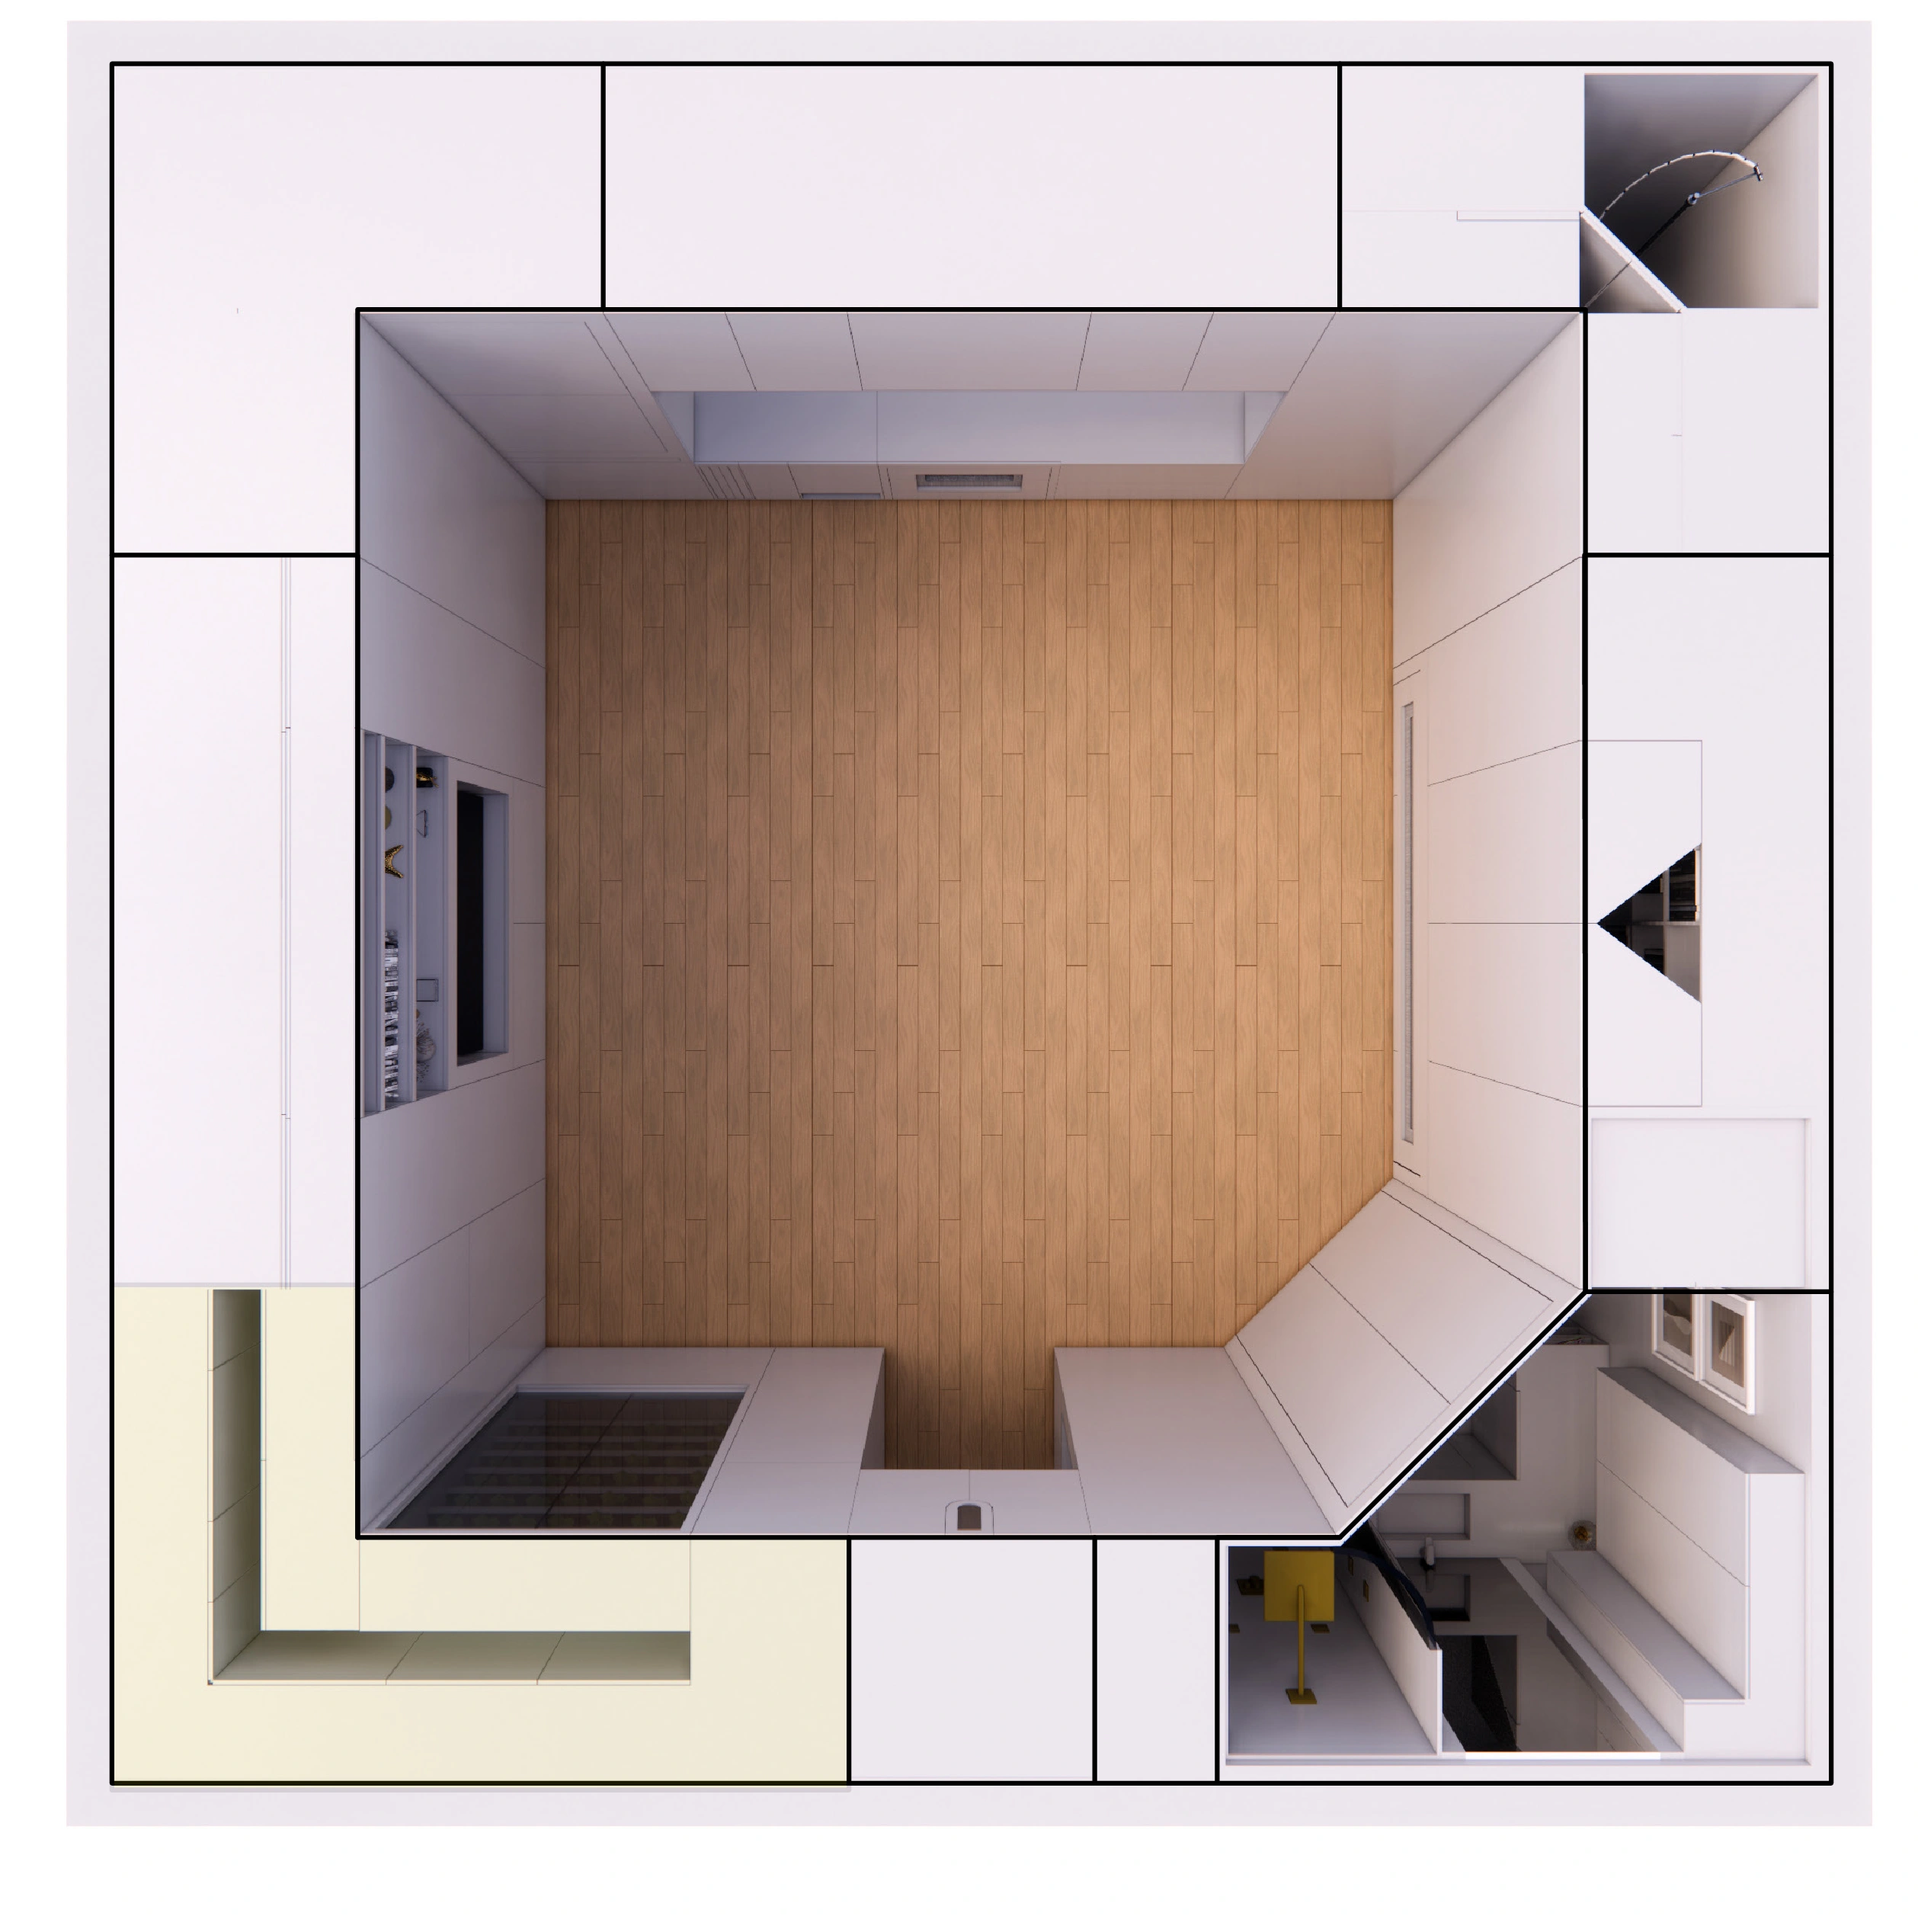
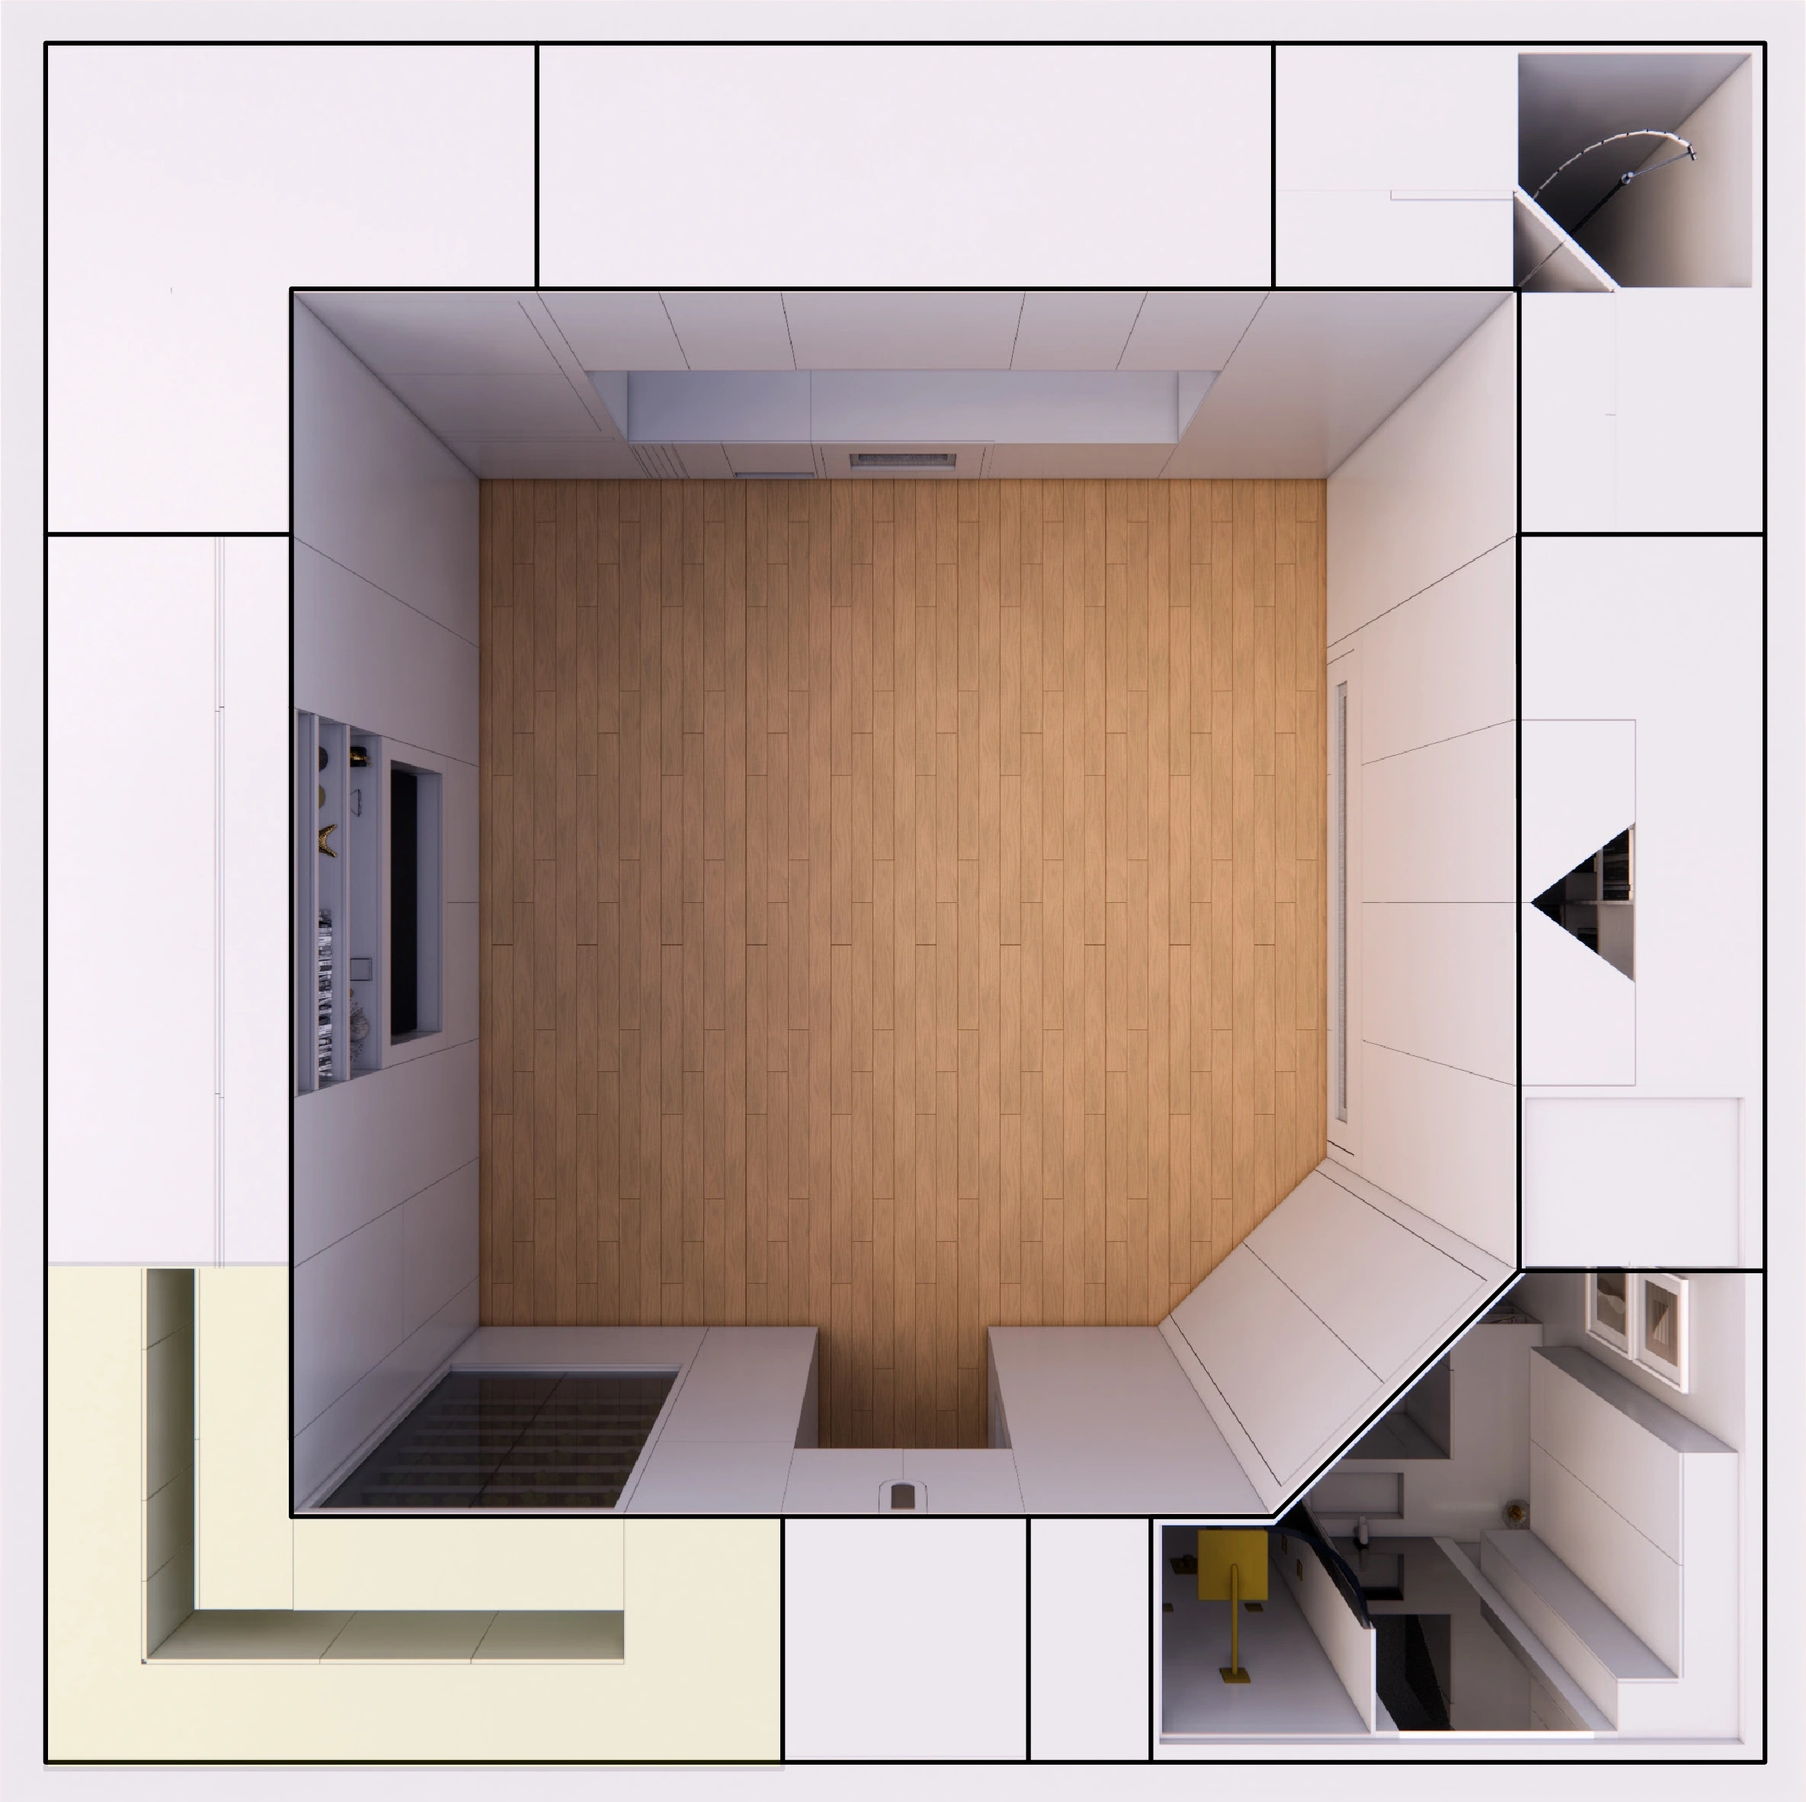
refactor: Daha iyi okunabilirlik ve tutarlılık için ModularHomeDetail bileşeninin stilleri güncellendi; daha iyi görsel hiyerarşi için resim kaynakları ve düzeni ayarlandı.

diff --git a/src/components/works/slug/modularHomeDetail/index.jsx b/src/components/works/slug/modularHomeDetail/index.jsx
@@ -1,11 +1,11 @@
-"use client";
-import CommonHero from "@/components/common/commonHero";
-import MotionLeftView from "@/components/common/motionLeftView";
-import MotionRightView from "@/components/common/motionRightView";
-import { useHeaderStore } from "@/store/headerStore";
-import { useIntroStore } from "@/store/introStore";
-import Image from "next/image";
-import React, { useEffect } from "react";
+'use client';
+import CommonHero from '@/components/common/commonHero';
+import MotionLeftView from '@/components/common/motionLeftView';
+import MotionRightView from '@/components/common/motionRightView';
+import { useHeaderStore } from '@/store/headerStore';
+import { useIntroStore } from '@/store/introStore';
+import Image from 'next/image';
+import React, { useEffect } from 'react';
 
 export default function ModularHomeDetail() {
   const setTitle = useHeaderStore((state) => state.setTitle);
@@ -13,15 +13,15 @@ export default function ModularHomeDetail() {
   const setIntroComplete = useIntroStore((state) => state.setIntroComplete);
 
   useEffect(() => {
-    setLightTitle("Works");
-    setTitle("ART");
+    setLightTitle('Works');
+    setTitle('ART');
     setIntroComplete(true);
   }, [setTitle, setLightTitle, setIntroComplete]);
 
   return (
     <main className="w-full fluid gridContainer">
       <CommonHero
-        video="/videos/home-hero-video.mp4"
+        video="/videos/home-hero-video-2.mp4"
         title="The Modular Home"
         subtitle="Interior Concept"
         description="Living alone is a growing trend and when small spaces are combined
@@ -33,74 +33,71 @@ export default function ModularHomeDetail() {
                     the user to meet the current need. The ultimate ambition is to redefine
                     the environment as an extension of a human."
         sideInfo={[
-          { label: "DATE", value: "2025" },
-          { label: "DIMENSION", value: "7x7x3.5m" },
-          { label: "AWARDS", value: "iF Design Award 2026" },
+          { label: 'DATE', value: '2025' },
+          { label: 'DIMENSION', value: '7x7x3.5m' },
+          { label: 'AWARDS', value: 'iF Design Award 2026' },
         ]}
       />
       <section className="fluid gridContainer w-full bg-custom-gray lg:min-h-100 py-12 sm:py-20 md:py-25 md:px-12.5">
         <main className="w-full flex items-center justify-end">
           <article className="w-full max-w-170">
             <p className="font-minion-pro text-base sm:text-lg lg:text-[20px] leading-6 sm:leading-7">
-              Home is; <br />A combination of objects and spaces. The only think that matters is the interaction of the human with the object. However, sometimes, the space is not enough for a good
-              interaction, and this is where this project begins to merge those spaces...
+              Home is; <br />A combination of objects and spaces. The only think that matters is the interaction of the human with the object. However, sometimes, the space is not enough for
+              a good interaction, and this is where this project begins to merge those spaces...
             </p>
           </article>
         </main>
       </section>
-      <main className="w-full flex flex-col gap-18.75 py-12.5 lg:py-18.75">
+      <main className="w-full flex flex-col gap-12.5 sm:gap-15 lg:gap-18.75 py-12.5 lg:py-18.75">
         <section className="w-full">
           <article className="relative w-full aspect-1500/765">
             <Image src="/images/projects/the-modular-home-detail-1.webp" alt="The Modular Home Detail 1" fill className="object-cover w-full h-full" />
           </article>
         </section>
         <section className="w-full">
-          <article className="w-full grid grid-cols-2 place-content-stretch items-center gap-10">
-            <p className="text-[20px] font-minion-pro">
-              When small spaces are combined with traditional architecture, they often result limited functionality and cramped layouts. As a solution, the design coverts rooms into customizable smart
-              modules that transforms 49m2 meter space into different rooms. Instead of making the occupant move around the rooms, the projects aim to create the rooms around the user to meet the
-              current need. The ultimate ambition is to redefine the environment as an extension of a human.
+          <article className="w-full grid lg:grid-cols-2 place-content-stretch items-center gap-10">
+            <p className="order-2 lg:order-1 text-base sm:text-lg lg:text-[20px] font-minion-pro">
+              When small spaces are combined with traditional architecture, they often result limited functionality and cramped layouts. As a solution, the design coverts rooms into
+              customizable smart modules that transforms 49m2 meter space into different rooms. Instead of making the occupant move around the rooms, the projects aim to create the rooms
+              around the user to meet the current need. The ultimate ambition is to redefine the environment as an extension of a human.
             </p>
-            <div className="relative min-h-150 flex">
-              <MotionRightView className="relative w-100 h-100">
-                <Image src="/images/projects/the-modular-home-detail-2-lower.webp" alt="The Modular Home Detail 2 Lower" fill className="object-cover w-full h-full" />
+            <div className="relative order-1 lg:order-2 max-h-[660px] aspect-730/660 flex">
+              <MotionRightView className="relative w-full h-full">
+                <Image src="/images/projects/the-modular-home-detail-2-low.png" alt="The Modular Home Detail 2 Lower" fill className="object-cover w-full h-full" />
               </MotionRightView>
-              <MotionLeftView className="absolute bottom-0 right-0 w-100 h-100">
-                <Image src="/images/projects/the-modular-home-detail-2-high.webp" alt="The Modular Home Detail 2 High" fill className="object-cover w-full h-full" />
-              </MotionLeftView>
             </div>
           </article>
         </section>
-        <section className="w-full flex flex-col items-start gap-18.75">
+        <section className="w-full flex flex-col items-start gap-12.5 sm:gap-15 lg:gap-18.75">
           <article className="relative w-full max-w-222.25 h-125">
             <Image src="/images/projects/the-modular-home-detail-3.webp" alt="The Modular Home Detail 3" fill className="object-cover w-full h-full" />
           </article>
-          <article className="flex flex-col self-end items-start gap-3 max-w-213.5 font-minion-pro text-[20px] leading-7">
+          <article className="flex flex-col self-end items-start gap-3 max-w-213.5 font-minion-pro text-base sm:text-lg lg:text-[20px] leading-7">
             <p>
-              The project aims to re-design and update the living spaces to achieve more efficient utilization of space in a small apartment for a single occupant or a couple. The design based on the
-              idea of rooms can be treated as individual modules that can be opened and closed, depending on the occupant's current needs. The aim is to reduce the amount of unoccupied volumes while
-              also maximizing the usability of the available space.
+              The project aims to re-design and update the living spaces to achieve more efficient utilization of space in a small apartment for a single occupant or a couple. The design
+              based on the idea of rooms can be treated as individual modules that can be opened and closed, depending on the occupant's current needs. The aim is to reduce the amount of
+              unoccupied volumes while also maximizing the usability of the available space.
             </p>
             <p>
-              The concept is designed as a home that is 7-meter to a 7-meter single room, where 13 modular units share and transform to get maximum efficiency. The concept creates a flexible and
-              customizable living space which is three times more efficient than traditional architecture in small spaces. The design made to allow and adapt to the changing needs and preferences of
-              the occupants over time.
+              The concept is designed as a home that is 7-meter to a 7-meter single room, where 13 modular units share and transform to get maximum efficiency. The concept creates a flexible
+              and customizable living space which is three times more efficient than traditional architecture in small spaces. The design made to allow and adapt to the changing needs and
+              preferences of the occupants over time.
             </p>
           </article>
         </section>
-        <section className="w-full grid grid-cols-2 place-content-stretch gap-12.5">
-          <article className="relative w-full h-187.5">
+        <section className="w-full grid lg:grid-cols-2 place-content-stretch justify-items-stretch gap-12.5">
+          <article className="relative aspect-750/750">
             <Image src="/images/projects/the-modular-home-detail-4.webp" alt="The Modular Home Detail 4" fill className="object-cover w-full h-full" />
           </article>
-          <article className="flex flex-col items-start gap-10">
-            <video className="block w-full h-full max-h-118 bg-white object-fit" autoPlay loop muted>
+          <article className="flex h-full flex-col items-start gap-5 min-[86.25rem]:gap-10">
+            <video className="block aspect-725/472 bg-white object-fit" autoPlay loop muted>
               <source src="/videos/the-modular-home-detail-video.mp4" type="video/mp4" />
             </video>
-            <div className="flex flex-col items-start gap-10">
+            <div className="flex flex-col items-start gap-2 xl:gap-5 min-[86.25rem]:gap-10">
               <h3 className="text-[32px] font-helvetica-neue font-light">Kitchen</h3>
-              <p className="font-minion-pro text-[20px] leading-7">
-                The kitchen module functions in two modes: fully open as a traditional kitchen, or closed for basic use. It supports users by ordering food based on health data, with deliveries stored
-                in a temperature-controlled cabinet.
+              <p className="font-minion-pro text-base sm:text-lg xl:text-[20px] sm:leading-5 xl:leading-7">
+                The kitchen module functions in two modes: fully open as a traditional kitchen, or closed for basic use. It supports users by ordering food based on health data, with
+                deliveries stored in a temperature-controlled cabinet.
               </p>
             </div>
           </article>
